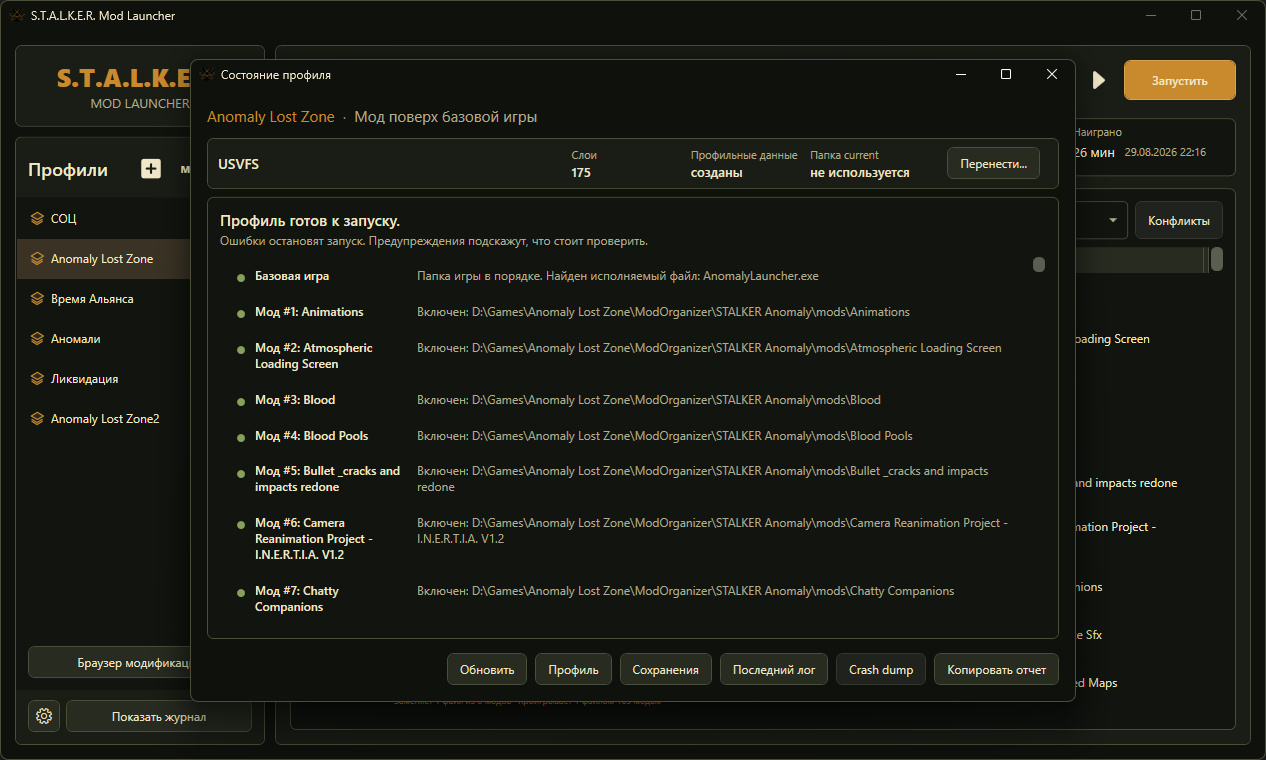
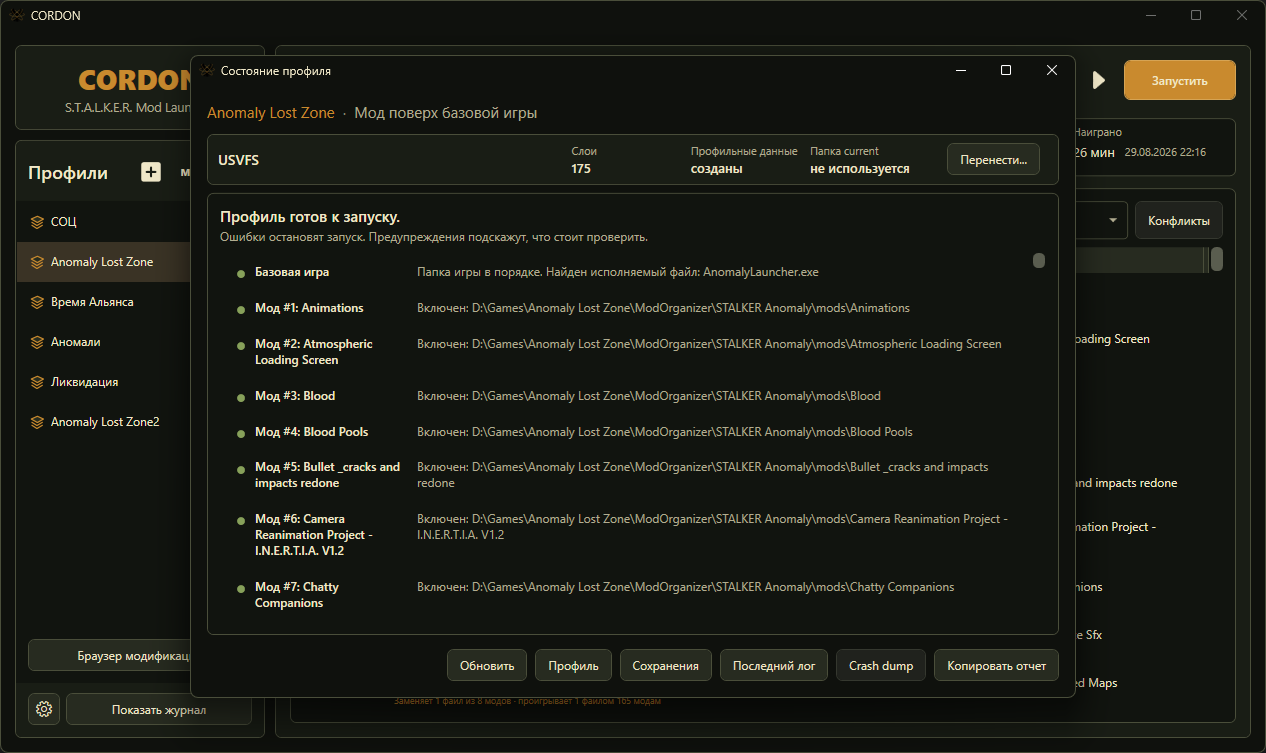
docs: обновить скриншоты и имена архивов

diff --git a/README.md b/README.md
@@ -81,8 +81,8 @@ CORDON помогает держать несколько модификаций
 
 | Архив | Для кого |
 | --- | --- |
-| `StalkerModLauncher-...-win-x64-standalone.zip` | Рекомендуется большинству пользователей. Уже содержит .NET Runtime. |
-| `StalkerModLauncher-...-win-x64.zip` | Компактная версия для системы с установленным .NET 8 Desktop Runtime x64. |
+| `CORDON-...-win-x64-standalone.zip` | Рекомендуется большинству пользователей. Уже содержит .NET Runtime. |
+| `CORDON-...-win-x64.zip` | Компактная версия для системы с установленным .NET 8 Desktop Runtime x64. |
 
 Требуется Windows 10/11 x64. Для USVFS может потребоваться Microsoft Visual C++ 2015–2022 Redistributable x64 и x86.
 
@@ -98,9 +98,11 @@ CORDON помогает держать несколько модификаций
 
 | Classic UI | PDA UI |
 | --- | --- |
-| [![Главное окно](docs/assets/screenshots/ClassicUI_main_window.png)](docs/assets/screenshots/ClassicUI_main_window.png) | [![Профиль](docs/assets/screenshots/PDAUI_profile_window.png)](docs/assets/screenshots/PDAUI_profile_window.png) |
+| [![Главное окно](docs/assets/screenshots/ClassicUI_main_window.png)](docs/assets/screenshots/ClassicUI_main_window.png) | [![Главное окно](docs/assets/screenshots/PDAUI_main_window.png)](docs/assets/screenshots/PDAUI_main_window.png) |
 | [![Браузер модификаций](docs/assets/screenshots/ClassicUI_APPRO_browser.png)](docs/assets/screenshots/ClassicUI_APPRO_browser.png) | [![Браузер модификаций](docs/assets/screenshots/PDAUI_APPRO_browser.png)](docs/assets/screenshots/PDAUI_APPRO_browser.png) |
-| [![Статус профиля](docs/assets/screenshots/ClassicUI_profile_status.png)](docs/assets/screenshots/ClassicUI_profile_status.png) | [![Скриншоты](docs/assets/screenshots/PDAUI_screens_window.png)](docs/assets/screenshots/PDAUI_screens_window.png) |
+| [![Скриншоты](docs/assets/screenshots/ClassicUI_screens_window.png)](docs/assets/screenshots/ClassicUI_screens_window.png) | [![Скриншоты](docs/assets/screenshots/PDAUI_screens_window.png)](docs/assets/screenshots/PDAUI_screens_window.png) |
+| [![Полный экран](docs/assets/screenshots/ClassicUI_full_screen_window.png)](docs/assets/screenshots/ClassicUI_full_screen_window.png) | [![Профиль](docs/assets/screenshots/PDAUI_profile_window.png)](docs/assets/screenshots/PDAUI_profile_window.png) |
+| [![Сканирование модов](docs/assets/screenshots/ClassicUI_mods_scan.png)](docs/assets/screenshots/ClassicUI_mods_scan.png) | [![Настройки](docs/assets/screenshots/PDAUI_settings_window.png)](docs/assets/screenshots/PDAUI_settings_window.png) |
 
 ## Для разработчиков
 
@@ -149,8 +151,8 @@ CORDON is an open-source Windows profile launcher for the original trilogy, Anom
 
 | Package | Description |
 | --- | --- |
-| `StalkerModLauncher-...-win-x64-standalone.zip` | Recommended for most users. Includes the .NET Runtime. |
-| `StalkerModLauncher-...-win-x64.zip` | Smaller package. Requires .NET 8 Desktop Runtime x64. |
+| `CORDON-...-win-x64-standalone.zip` | Recommended for most users. Includes the .NET Runtime. |
+| `CORDON-...-win-x64.zip` | Smaller package. Requires .NET 8 Desktop Runtime x64. |
 
 Windows 10/11 x64 is required. USVFS may also require the Microsoft Visual C++ 2015–2022 Redistributable for both x64 and x86.
 
